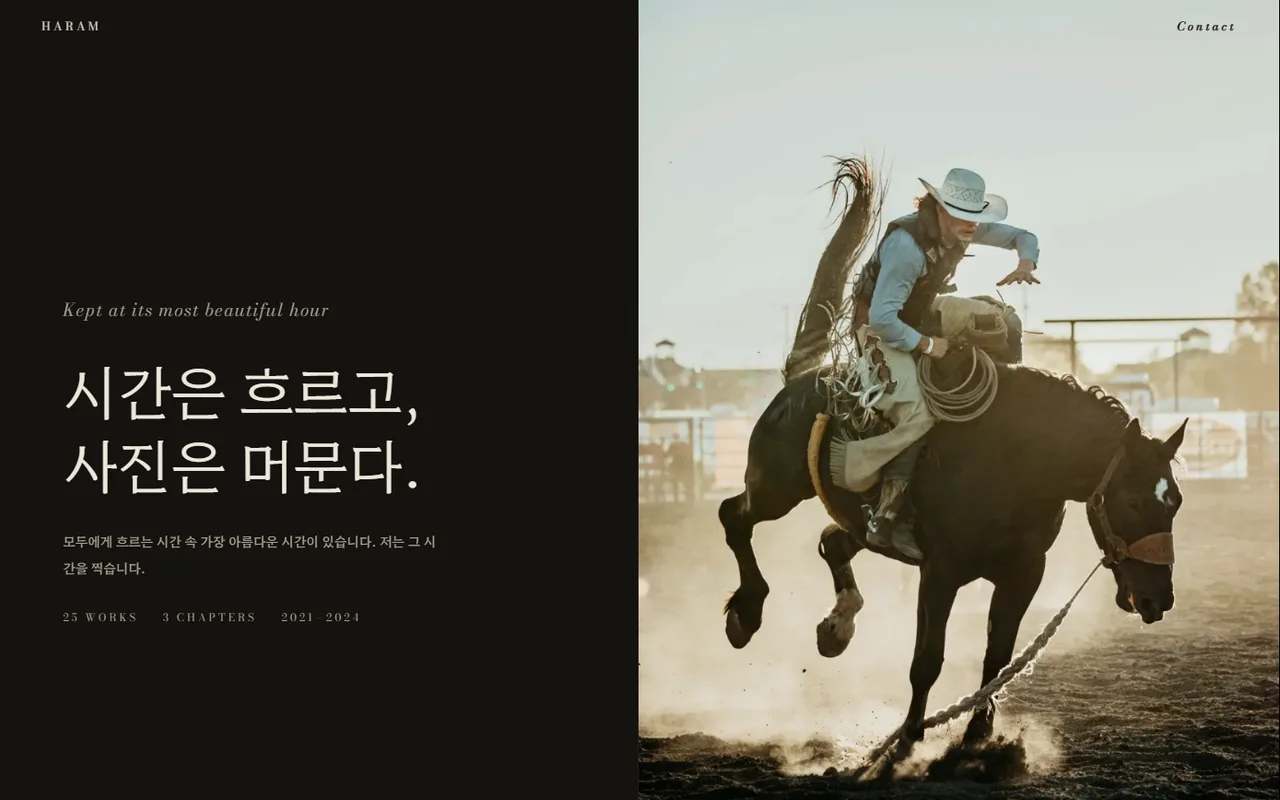
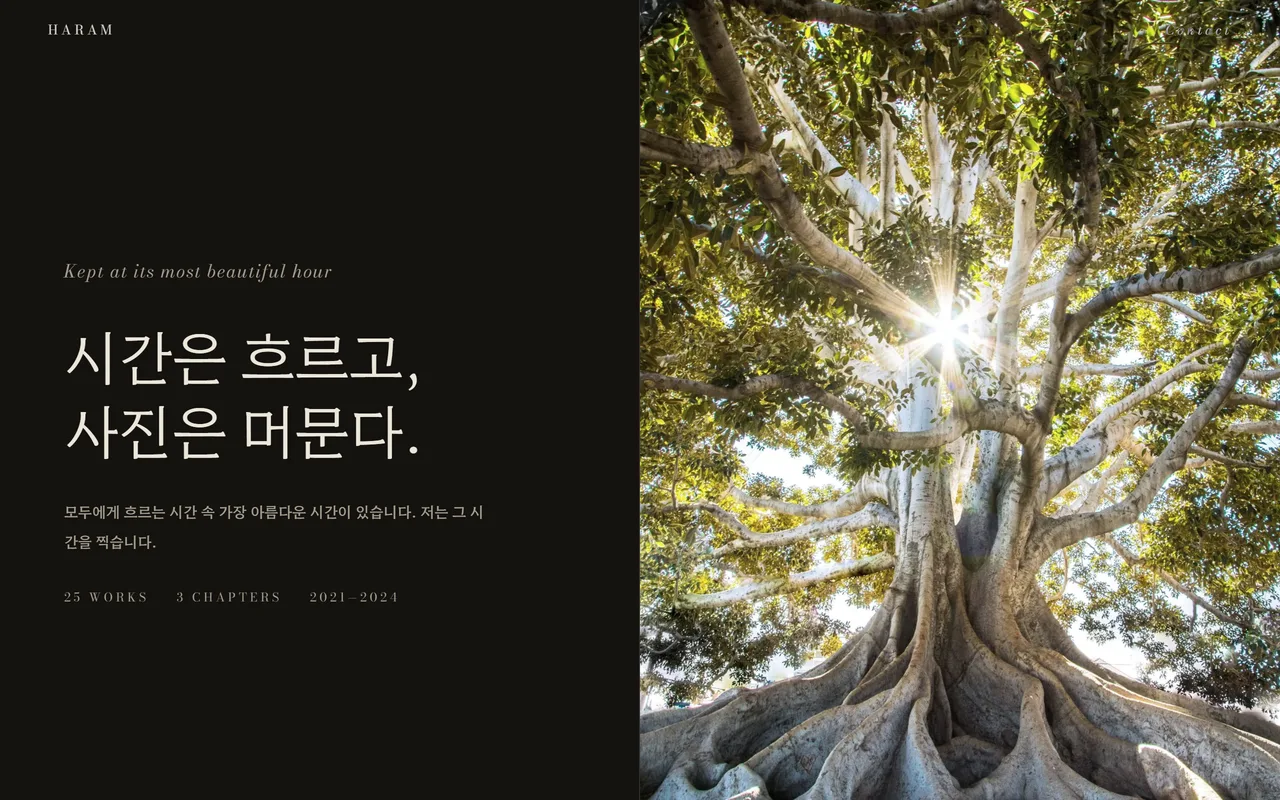
하람 사진 썸네일을 새 hero로 교체하고 Vercel Analytics 추가
Claude-Session: https://claude.ai/code/session_011yWUuZn1BP9PxBmQbCFWNX

diff --git a/app/layout.tsx b/app/layout.tsx
@@ -1,3 +1,4 @@
+import { Analytics } from '@vercel/analytics/next';
 import type { Metadata, Viewport } from 'next';
 import { Manrope } from 'next/font/google';
 
@@ -44,7 +45,11 @@ export default function RootLayout({ children }: { children: React.ReactNode }) 
           href="https://cdn.jsdelivr.net/gh/orioncactus/pretendard@v1.3.9/dist/web/variable/pretendardvariable.min.css"
         />
       </head>
-      <body>{children}</body>
+      <body>
+        {children}
+        {/* Vercel 방문 지표 수집 */}
+        <Analytics />
+      </body>
     </html>
   );
 }
